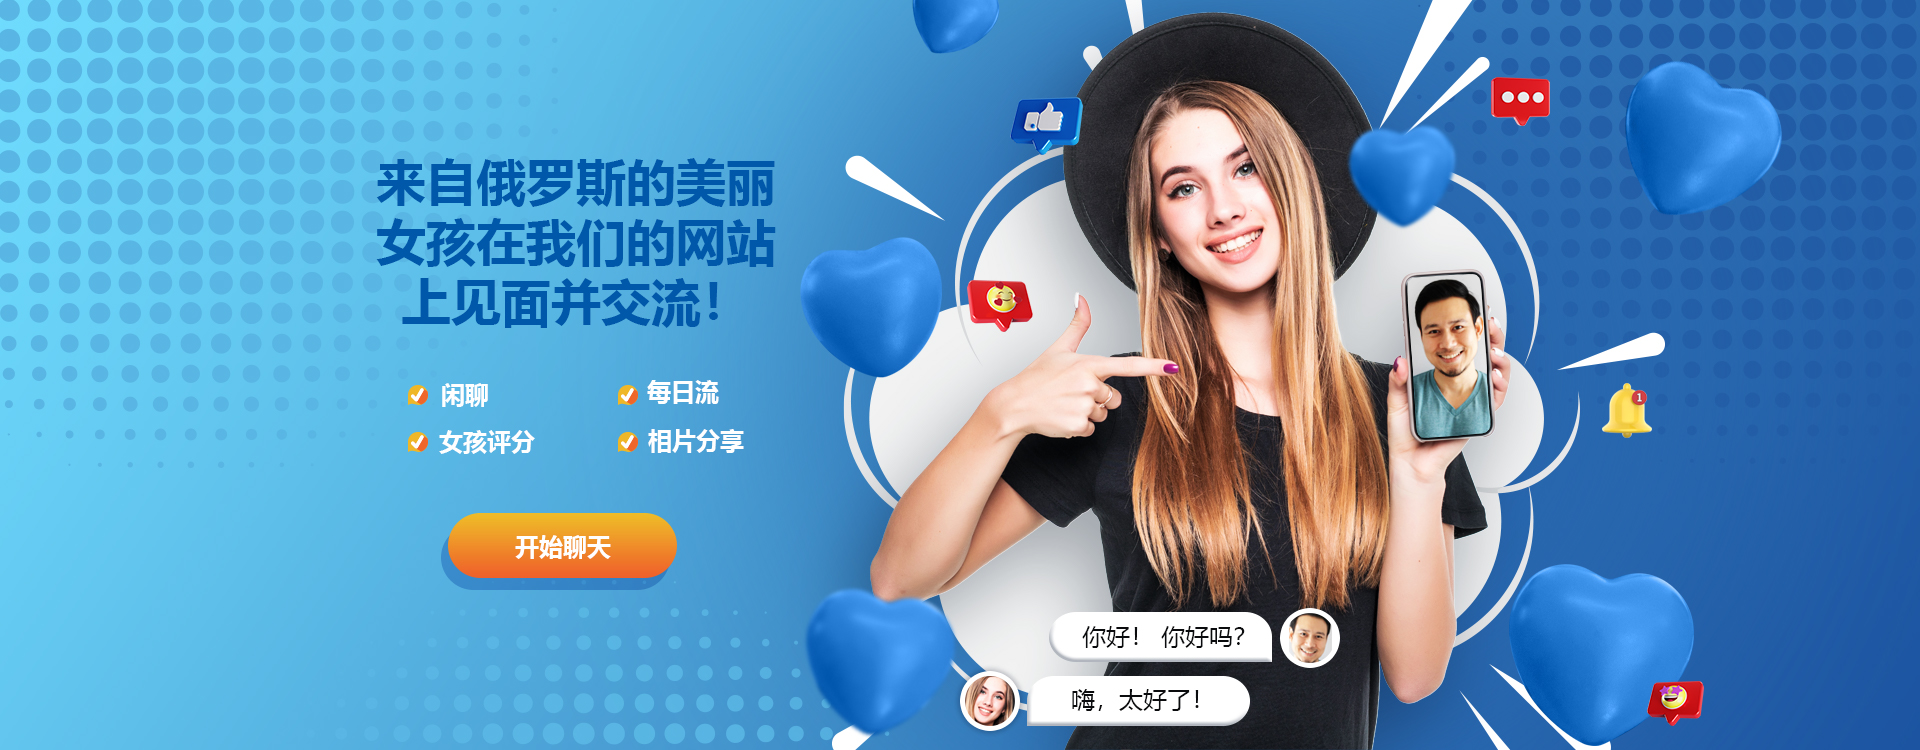
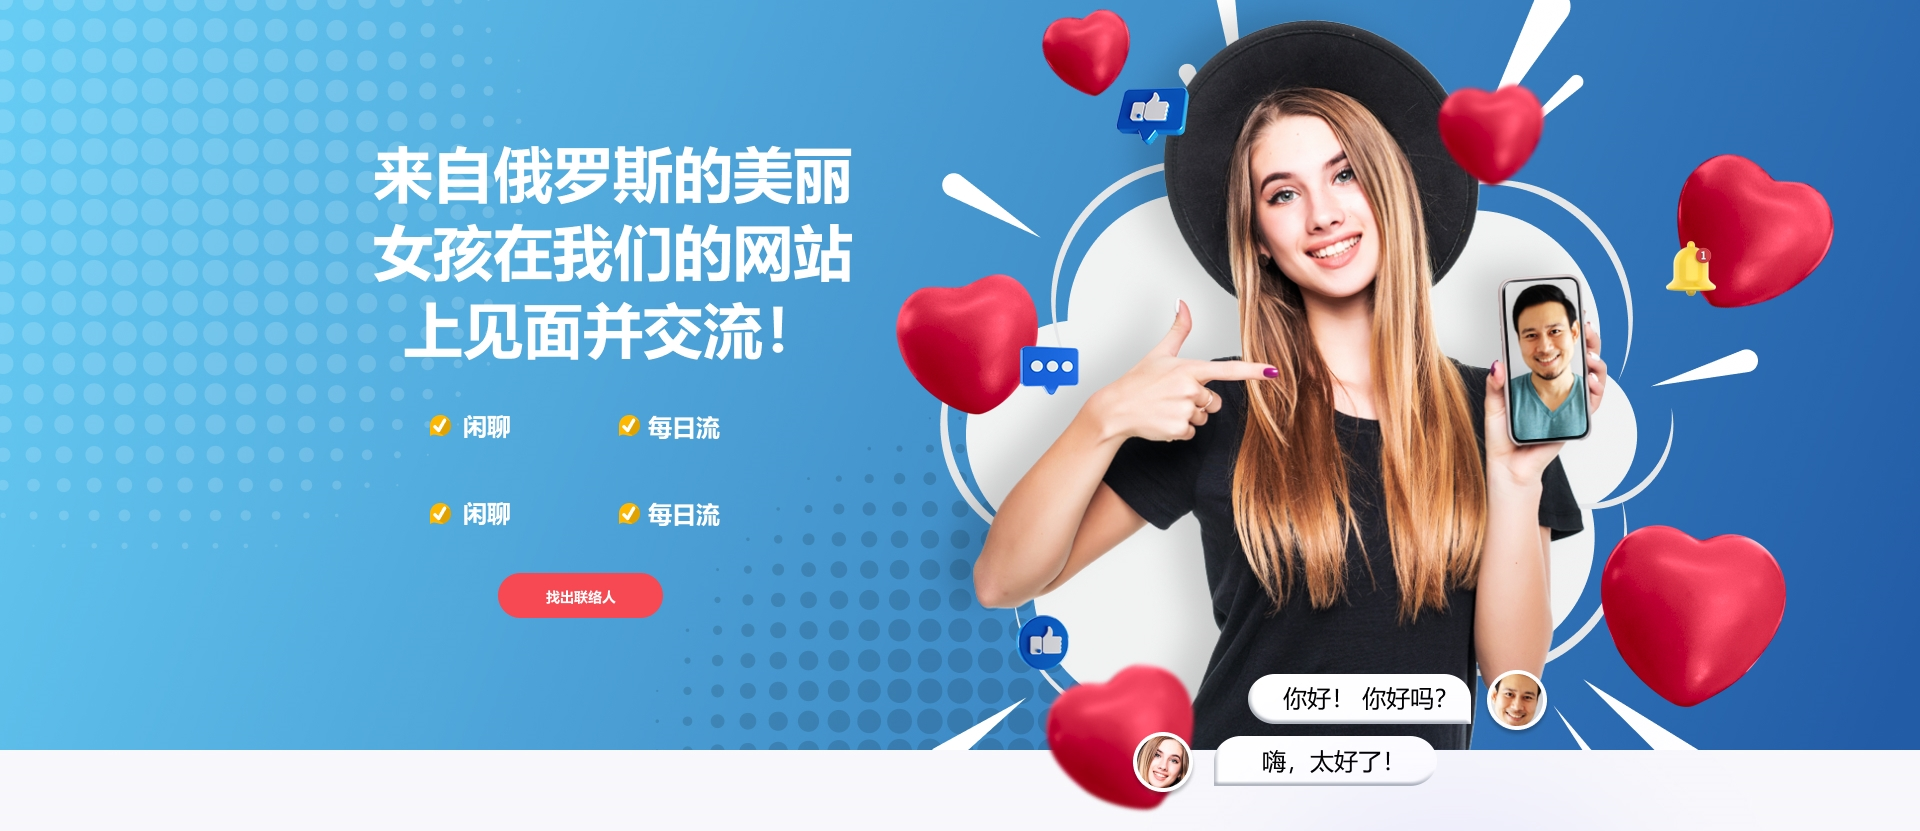
new pages

diff --git a/pages/login.vue b/pages/login.vue
@@ -21,26 +21,49 @@
             <p>Lorem ipsum dolor sit amet, consectetur adipisicing elit. Ad aliquid atque consequatur dolor itaque, neque quam ratione tenetur voluptates! Aspernatur ducimus error iste laborum modi obcaecati quidem saepe! Consequatur, veniam.</p>
             <el-collapse class="mb-20" v-model="activeAccordion" >
               <el-collapse-item title="Как работать на нашей платформе" name="1">
-                <div>Consistent with real life: in line with the process and logic of real life, and comply with languages and habits that the users are used to;</div>
-                <div>Consistent within interface: all elements should be consistent, such as: design style, icons and texts, position of elements, etc.</div>
+                <p>Первый шаг - регистрация и заполнение профиля. <br>
+                  Расскажите о себе как можно больше информации, это привлекает внимание к вам!<br><br>
+
+                  Далее - добавьте альбомы.<br>
+                  Для обычных пользователей - обычные альбомы с повседневными фото, для VIP - с более пикантными.<br><br>
+
+                  Второй шаг - настройте программу для ведения трансляции. Инструкции находятся у вас в профиле<br><br>
+
+                  Третий шаг - планируете трансляцию и запускаете ее!</p>
               </el-collapse-item>
               <el-collapse-item title="Монетизация" name="2">
-                <div>Operation feedback: enable the users to clearly perceive their operations by style updates and interactive effects;</div>
-                <div>Visual feedback: reflect current state by updating or rearranging elements of the page.</div>
+                <p>
+                  Монетизация на сайте работает за счет получения вами виртуальной валюты - "Кристаллов" - и ее конвертации в рубли по курсу.<br><br>
+                  Вы получаете подарки и донаты за "Кристаллы", а затем их выводите!<br><br>
+
+                  Клиенты так же могут у вас покупать подарки-запросы (вам потребуется записать для них видео или сделать фото), важно сделать это в срок!<br><br>
+
+                  Крайне важно - максимальное внимание VIP клиентам, вы ОБЯЗАНЫ им отвечать в чате и писать сообщения!
+                </p>
               </el-collapse-item>
               <el-collapse-item title="Правила платформы" name="3">
-                <div>Simplify the process: keep operating process simple and intuitive;</div>
-                <div>Definite and clear: enunciate your intentions clearly so that the users can quickly understand and make decisions;</div>
-                <div>Easy to identify: the interface should be straightforward, which helps the users to identify and frees them from memorizing and recalling.</div>
+                Ниже вы видите лишь самые основные правила платформы. По ссылке ниже прочитайте и ознакомьтесь с полным списком всех правил.<br><br>
+
+                А) Основные моменты<br>
+                - обязательно отвечать VIP<br>
+                - читать все чаты<br>
+                - отвечать на каждый подарок и запрос!<br><br>
+
+                Б) Стрим<br>
+                - запрещена нагота<br>
+                - запрещается нецензурная брань<br>
+                - запрещается пускать гостей
               </el-collapse-item>
 
             </el-collapse>
-             <el-checkbox class="mb-20" v-model="agree">Прочитал и согласен с <a style="text-decoration: underline;color: inherit" href="http://localhost:8000/media/p.docx">договором-офертой</a></el-checkbox>
-            <p @click="activeStep+=1" :class="{'btnDisabled':!agree}" class="btn btn-l-blue">Далее</p>
+            <el-checkbox class="mb-20" v-model="agree">Прочитал и согласен с <a style="text-decoration: underline;color: inherit" href="http://localhost:8000/media/p.docx">договором-офертой</a></el-checkbox>
+            <el-checkbox class="mb-20" v-model="agree1">Прочитал и согласен с <a style="text-decoration: underline;color: inherit" href="http://localhost:8000/media/p.docx">правилами платформы</a></el-checkbox>
+
+            <p @click="activeStep+=1" :class="{'btnDisabled':!agree || !agree1}" class="btn btn-l-blue">Далее</p>
           </div>
 
           <div v-if="activeStep===1" class="">
-              <h3>Данные</h3>
+            <h3>Данные</h3>
             <el-input class="mb-10" v-model="registerData.fio" placeholder="ФИО"></el-input>
             <el-input class="mb-10" v-model="registerData.nickname" placeholder="Nickname"></el-input>
             <el-input class="mb-10 " v-model="registerData.wechatid" placeholder="Логин"></el-input>
@@ -55,15 +78,15 @@
             </div>
           </div>
 
-           <div v-if="activeStep===2" class="">
-             <h3>Завершение регистрации</h3>
+          <div v-if="activeStep===2" class="">
+            <h3>Завершение регистрации</h3>
             <p>После нажатии на кнопку "Завершить регистрацию" ваши данные будут проверены, мы с вами свяжемся и активируем вашего пользователя. После завершения регистрации не забудьте наполнить ваш профиль информацией!</p>
 
-             <div style="display: flex; align-items: center;justify-content: space-between">
+            <div style="display: flex; align-items: center;justify-content: space-between">
               <p @click="activeStep-=1" class="btn btn-l-blue">Назад</p>
               <p style="width: 250px" class="btn btn-l-blue text-f-14 mb-15" @click="userRegister">Завершить регистрацию</p>
             </div>
-           </div>
+          </div>
 
         </el-tab-pane>
       </el-tabs>
@@ -72,78 +95,84 @@
   </div>
 </template>
 <script>
-  export default {
-    layout: 'login',
-    auth: false,
-    data() {
-      return {
-        activeTab:'loginTab',
-        activeAccordion: [],
-        activeStep:0,
-        agree:false,
-        userData:{
-          email:null,
-          password:null,
-          agree:null,
-        },
-        registerData:{
-          fio:null,
-          nickname:null,
-          email:null,
-          wechatid:null,
-          password1:null,
-          password2:null,
-          agree:null,
-          subscribe_type:'1',
-        },
-
-      };
-    },
-
-    watch: {
-
-    },
-    mounted() {
-
-    },
-    computed:{
-      is_valid(){
-        return this.registerData.fio && this.registerData.nickname && this.registerData.email && this.registerData.wechatid &&
-            this.registerData.password1 && this.registerData.password2 && this.registerData.password1 === this.registerData.password2 &&
-            this.registerData.password1.length >= 8
-      }
-    },
-    methods: {
-      notify(title,message,type){
-        this.$notify({
-          title: title,
-          message: message,
-          type: type
-        });
+export default {
+  layout: 'login',
+  auth: false,
+  data() {
+    return {
+      activeTab:'loginTab',
+      activeAccordion: [],
+      activeStep:0,
+      agree:false,
+      agree1:false,
+      userData:{
+        email:null,
+        password:null,
+        agree:null,
       },
-      async userLogin() {
-        console.log('dsfd')
-        try {
-          let response = await this.$auth.loginWith('local', { data: this.userData })
-          this.$router.push(`/`)
-        } catch (error) {
-          this.notify('Ошибка','Аккаунт еще не активирован или введены неверные данные','error')
-        }
+      registerData:{
+        fio:null,
+        nickname:null,
+        email:null,
+        wechatid:null,
+        password1:null,
+        password2:null,
+        agree:null,
+        subscribe_type:'1',
       },
 
-      async userRegister(){
-        let response =  this.$axios.post('/auth/users/', {
-          email:this.registerData.email,
-          password:this.registerData.password2,
-          fio:this.registerData.fio,
-          wechatid:this.registerData.wechatid,
-          nickname:this.registerData.nickname,
-        })
-        console.log(response)
-      }
+    };
+  },
 
+  watch: {
+
+  },
+  mounted() {
+
+  },
+  computed:{
+    is_valid(){
+      return this.registerData.fio && this.registerData.nickname && this.registerData.email && this.registerData.wechatid &&
+          this.registerData.password1 && this.registerData.password2 && this.registerData.password1 === this.registerData.password2 &&
+          this.registerData.password1.length >= 8
     }
+  },
+  methods: {
+    notify(title,message,type){
+      this.$notify({
+        title: title,
+        message: message,
+        type: type
+      });
+    },
+    async userLogin() {
+      console.log('dsfd')
+      try {
+        let response = await this.$auth.loginWith('local', { data: this.userData })
+        this.$router.push(`/`)
+      } catch (error) {
+        this.notify('Ошибка','Аккаунт еще не активирован или введены неверные данные','error')
+      }
+    },
+
+    async userRegister() {
+      try {
+        let response = await this.$axios.post('/auth/users/', {
+          email: this.registerData.email,
+          password: this.registerData.password2,
+          fio: this.registerData.fio,
+          wechatid: this.registerData.wechatid,
+          nickname: this.registerData.nickname,
+          //is_streamer:true
+        })
+        this.$router.push(`/lk`)
+      } catch (error) {
+        this.notify('Ошибка','Введеные не верные данные','error')
+      }
+    }
+
   }
+}
 </script>
 
 

diff --git a/assets/_banner.sass b/assets/_banner.sass
@@ -1,8 +1,8 @@
 .banner
   background: url(/banner.jpg) no-repeat
   background-position-x: center
-  box-shadow: 0px 4px 4px rgba(0, 0, 0, 0.25)
-  height: 748px
+  //box-shadow: 0px 4px 4px rgba(0, 0, 0, 0.25)
+  height: 831px
   margin-bottom: 115px
   &-inner
     max-width: 1180px
